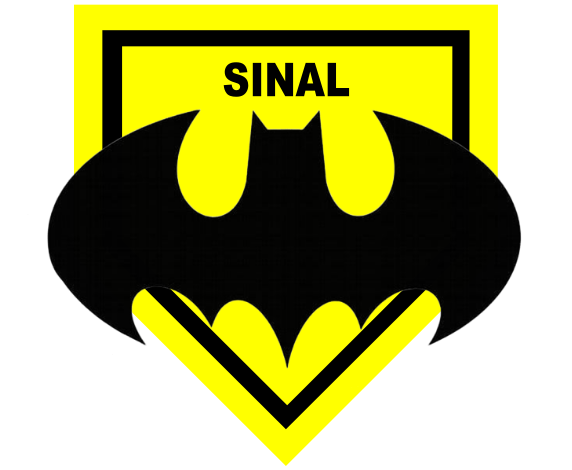
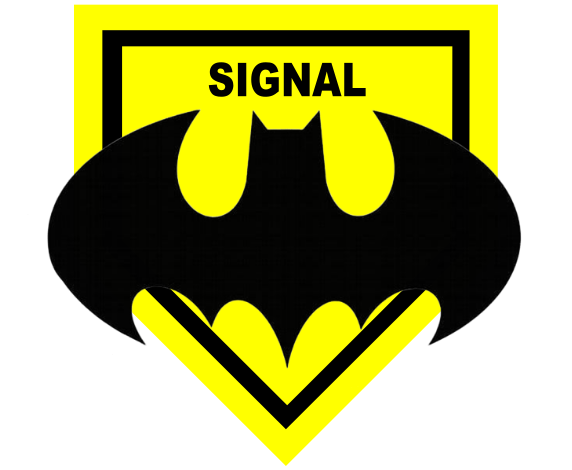
atualizando assets e readme

Changed region(s): [[0.3566, 0.1191, 0.6538, 0.2085]]

diff --git a/README.md b/README.md
@@ -1,1 +1,70 @@
-# react-native-bat-sinal-app
+<div align="center">
+  <a href="#">
+      <img src=".github/assets/badge.png" width="200" />
+  </a>
+
+  <h1 align="center">Bat-Signal App</h1>
+
+  <p align="center">
+    An app to trigger the Bat-Signal.
+    <br />
+    <a href="https://github.com/ismaelldiias/react-native-bat-signal-app/issues">Report Bug</a>
+    ·
+    <a href="https://github.com/ismaelldiias/react-native-bat-signal-app/issues/new">Request Feature</a>
+  </p>
+</div>
+
+## 📌 About the Project
+
+This app was originally created as part of the **React Native Developer Training** by [Digital Innovation One (DIO)](https://www.dio.me/).
+
+The instructor [Felipe Aguiar](https://github.com/felipeAguiarCode) provided a briefing with the challenge of **developing the mobile interface for a Bat-Signal application using React Native**, allowing users to trigger and visualize the iconic Batman signal in an interactive and responsive way.
+
+This personal enhancement changes the Bat-Signal logo background to yellow once the user fills out and submits the form, providing a clearer visual indication that the signal has been activated.
+
+## 👀 Preview
+
+<div align="center">
+  <a href="#">
+      <img src=".github/assets/preview.gif" width="200" alt="preview" />
+  </a>
+</div>
+
+## 🔥 Features
+
+- [x] Interactive Bat-Signal button with status indication
+- [x] Form screen to collect user data
+- [x] **(Improvement)** Yellow background behind the logo when activated
+
+## 🛠 Technologies
+
+- [React Native](https://reactnative.dev/)
+- [Expo](https://docs.expo.dev/)
+
+## 🚀 Building
+
+You'll need [Node.js](https://nodejs.org) installed on your computer in order to build this app.
+
+```bash
+git clone https://github.com/ismaelldiias/react-native-bat-signal-app.git
+$ cd react-native-bat-signal-app
+$ npm install
+$ npm run start
+```
+
+## 📱 Usage
+
+🔧 Run the script
+
+```bash
+$ npm run start
+```
+
+Runs the app in the development mode.<br/>
+
+## ✨ Author
+
+| Original Author |
+|:---------------:|
+| [<img src="https://avatars.githubusercontent.com/u/75230384?s=96" width="100"><br><sub>Ismael Dias</sub>](https://github.com/ismaelldiias)<br>[LinkedIn](https://www.linkedin.com/in/ismaelldiias/) |
+
